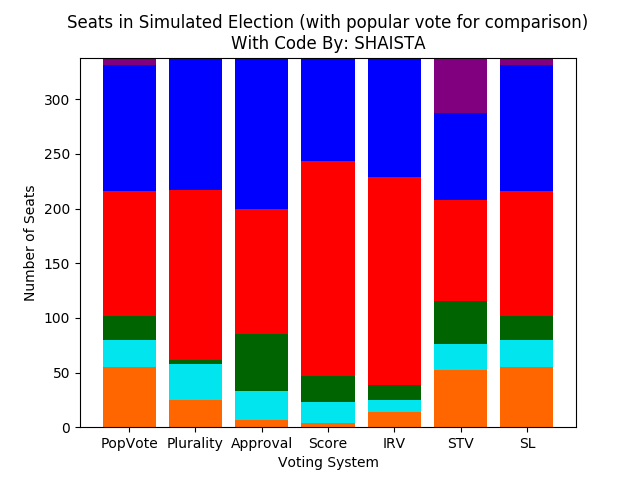
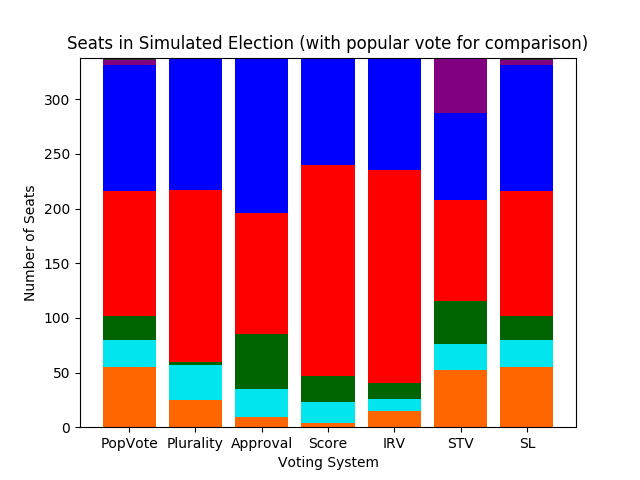
polish code

diff --git a/voting-system/simulate_elections.py b/voting-system/simulate_elections.py
@@ -1,6 +1,3 @@
-NAME = 'SHAISTA'
-
-
 from read_votes import *
 import matplotlib.pyplot as plt
 import numpy as np
@@ -172,7 +169,7 @@ def plot_party_results(grid_list, plot_name, show_graph = True):
 
     plt.xlabel('Voting System')
     plt.ylabel('Number of Seats')
-    plt.title('Seats in Simulated Election (with popular vote for comparison)\nWith Code By: ' + NAME)
+    plt.title('Seats in Simulated Election (with popular vote for comparison)')
 
     # More things to share
     plt.xticks(row_ind + 0.0, ('PopVote', 'Plurality', 'Approval', 'Score', 'IRV', 'STV', 'SL'))
